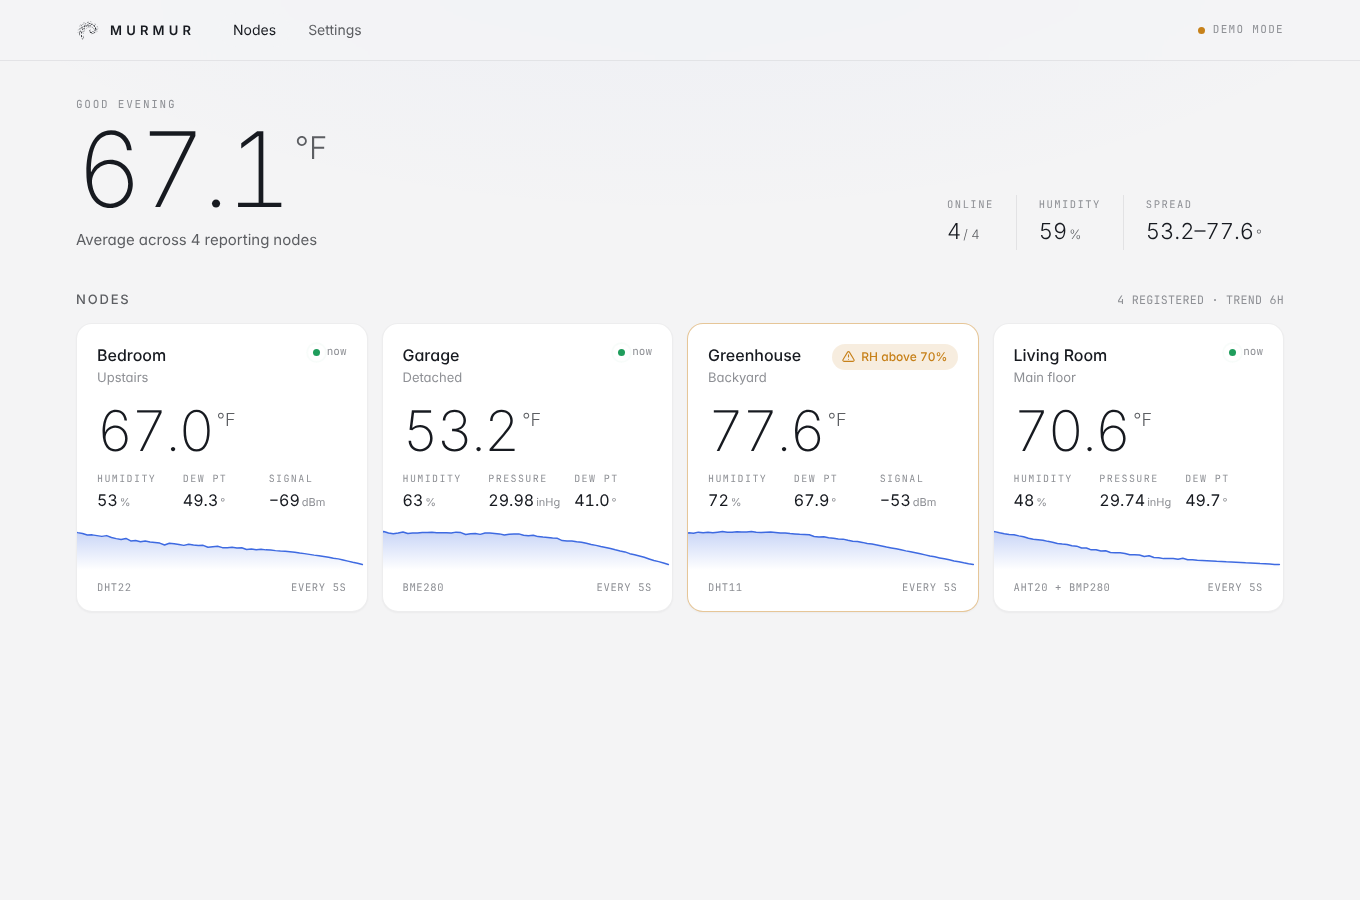
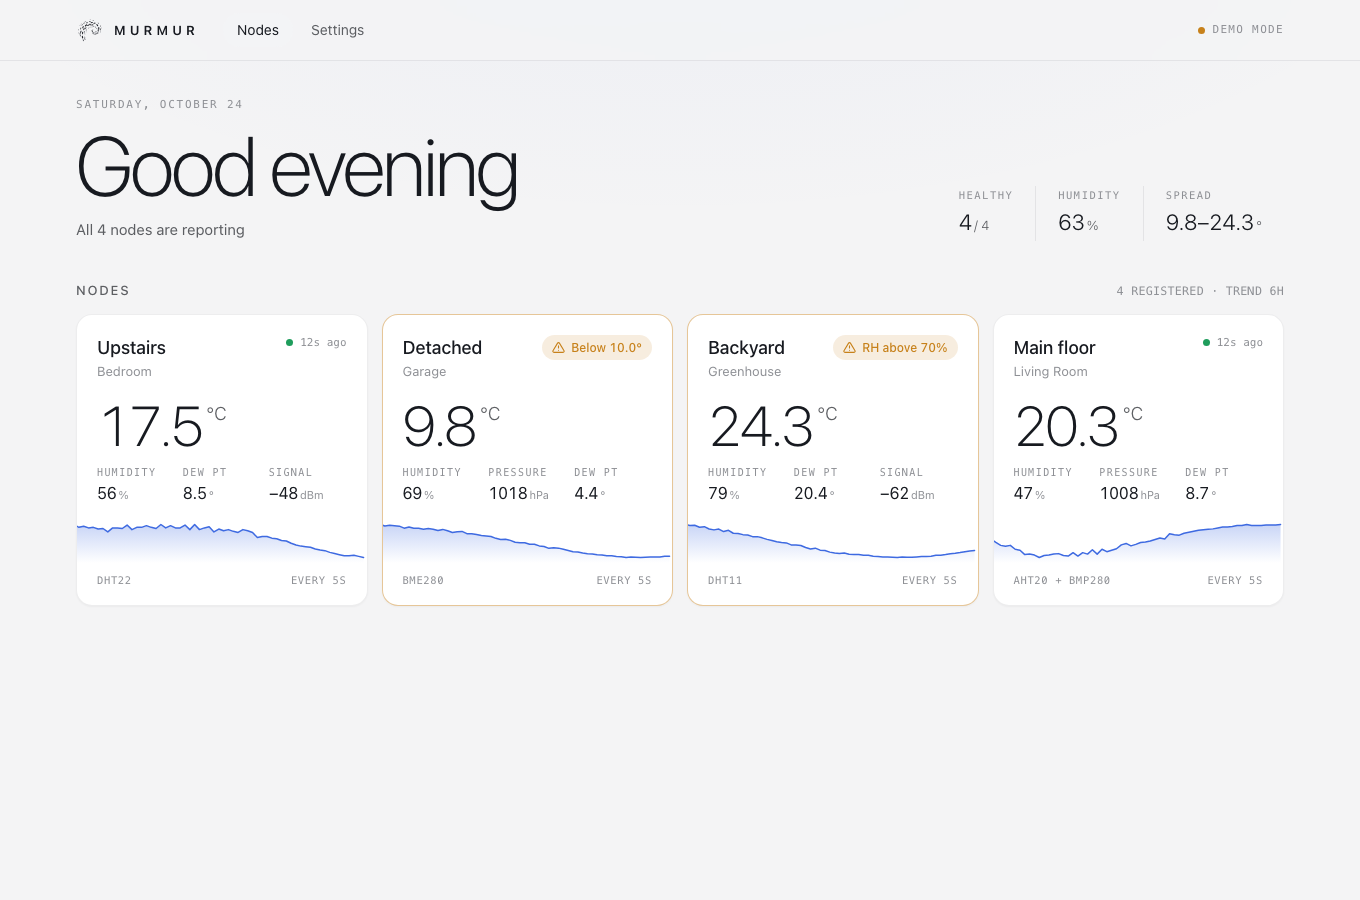
refactor dashboard layout and update greeting message; enhance image assets

diff --git a/app/static/app.js b/app/static/app.js
@@ -98,7 +98,7 @@ const tipTime = (ts) => new Date(ts * 1000).toLocaleString([], { weekday: 'short
 
 function greeting() {
   const h = new Date().getHours();
-  return h < 5 ? 'Good night' : h < 12 ? 'Good morning' : h < 18 ? 'Good afternoon' : 'Good evening';
+  return h < 5 ? 'Still up?' : h < 12 ? 'Good morning' : h < 18 ? 'Good afternoon' : 'Good evening';
 }
 
 function signal(rssi) {
@@ -283,15 +283,13 @@ function heroHtml(nodes) {
   const temps = live.map((n) => n.last.t);
   const hums = live.map((n) => n.last.h).filter((v) => v != null);
   const avg = (a) => (a.length ? a.reduce((x, y) => x + y, 0) / a.length : null);
-  const tAvg = avg(temps);
   const hAvg = avg(hums);
   const lo = temps.length ? Math.min(...temps) : null, hi = temps.length ? Math.max(...temps) : null;
-  const unit = U.tUnit();
   return `
     <div>
-      <div class="eyebrow">${greeting()}</div>
-      <div class="big"><span>${num(U.t(tAvg))}</span><span class="unit">${unit}</span></div>
-      <div class="caption">Average across ${live.length} reporting node${live.length === 1 ? '' : 's'}</div>
+      <div class="eyebrow">${new Date().toLocaleDateString(undefined, { weekday: 'long', month: 'long', day: 'numeric' })}</div>
+      <div class="big">${greeting()}</div>
+      <div class="caption">${!nodes.length ? 'No nodes yet' : live.length === nodes.length ? `All ${nodes.length} node${nodes.length === 1 ? ' is' : 's are'} reporting` : `${live.length} of ${nodes.length} nodes reporting`}</div>
     </div>
     <div class="summary">
       <div><div class="k">Healthy</div><div class="v">${nodes.filter((n) => n.online).length}<small>/ ${nodes.length}</small></div></div>

diff --git a/app/static/app.css b/app/static/app.css
@@ -185,10 +185,9 @@ h1, h2, h3 { margin: 0; font-weight: 500; letter-spacing: -0.01em; }
    ========================================================================== */
 .dash-hero { display: flex; flex-wrap: wrap; align-items: flex-end; justify-content: space-between; gap: 24px; padding: 8px 0 4px; }
 .dash-hero .big {
-  display: flex; align-items: flex-start; gap: 6px; margin-top: 10px;
-  font-size: clamp(64px, 12vw, 104px); font-weight: 200; letter-spacing: -0.04em; line-height: 0.9;
+  margin-top: 10px;
+  font-size: clamp(48px, 8vw, 84px); font-weight: 200; letter-spacing: -0.03em; line-height: 1;
 }
-.dash-hero .big .unit { font-size: 0.3em; font-weight: 300; letter-spacing: 0; margin-top: 0.35em; color: var(--text-2); }
 .dash-hero .caption { margin-top: 12px; color: var(--text-2); }
 .summary { display: grid; grid-template-columns: repeat(3, auto); gap: 0; }
 .summary > div { padding: 2px 22px; border-left: 1px solid var(--line); }
